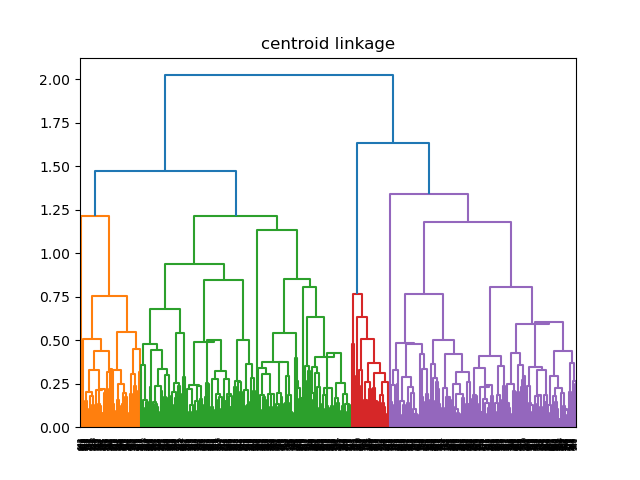
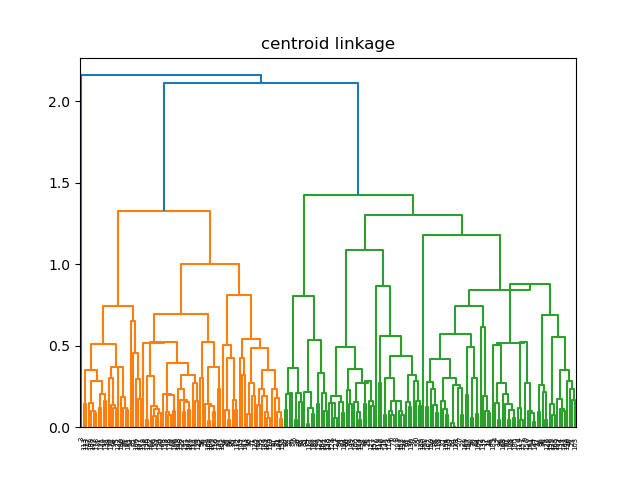
hw02

diff --git a/src/scipy_linkage_blobs.py b/src/scipy_linkage_blobs.py
@@ -3,37 +3,37 @@ from sklearn.datasets import make_blobs
 from sklearn.preprocessing import StandardScaler
 from sklearn.metrics import silhouette_score, calinski_harabasz_score
 from scipy.cluster.hierarchy import dendrogram, linkage, fcluster
+from kmean_pca import plotit
 
 
 def plot_agglo(X_scaled, link_choice=str):
     score_s = []
     score_chs = []
+    fig, axs = plt.subplots(5, 2)
+    x, y = 0, 0
     for i in range(2, 11):
         Z = linkage(X_scaled, link_choice)
         y_pred = fcluster(Z=Z, t=i, criterion="maxclust")
         score_s.append(silhouette_score(X_scaled, y_pred))
         score_chs.append(calinski_harabasz_score(X_scaled, y_pred))
 
-        plt.subplot(5, 2, i - 1)
-        plt.scatter(X_scaled[:, 0], X_scaled[:, 1], c=y_pred)
-        plt.title(f"Linkage = {link_choice} & Cluster = {i}")
-    plt.gcf().set_size_inches(10, 15)
-    plt.tight_layout
+        axs[x, y].scatter(X_scaled[:, 0], X_scaled[:, 1], c=y_pred)
+        axs[x, y].set_title(f"Cluster = {i}")
+        if (i - 1) % 2 == 0:
+            x += 1
+        y = (i - 1) % 2
+    fig.set_size_inches(10, 15)
+    fig.suptitle(f"Linkage = {link_choice}")
+    plt.subplots_adjust(top=0.85)
+    fig.tight_layout(h_pad=2)
+
     return score_s, score_chs
-
-
-def plot_score(k, score, color):
-    plt.plot(k, score, color)
-    plt.xlabel("k")
-    plt.ylabel("score")
-    plt.grid(True)
-    plt.tight_layout
 
 
 if __name__ == "__main__":
     # Part 1 ==================================================================
     # generate sample data.
-    X, y = make_blobs(n_samples=1000, centers=4, random_state=0, cluster_std=0.5)
+    X, y = make_blobs(n_samples=200, centers=4, random_state=0, cluster_std=0.5)
 
     # scale the data.
     scaler = StandardScaler()
@@ -59,18 +59,34 @@ if __name__ == "__main__":
         list_chs.append(score_chs)
 
     # Part 3 ==================================================================
+    fig, axs = plt.subplots(5, 2)
     i = 0
     for link in link_type:
+        plotit(
+            axs=axs,
+            x_data=k_values,
+            y_data=list_s[i],
+            line="gs-",
+            ylabel="score",
+            name=f"Silhouette score for {link} linkage",
+            row=i,
+            col=0,
+        )
+        plotit(
+            axs=axs,
+            x_data=k_values,
+            y_data=list_chs[i],
+            line="bs-",
+            ylabel="score",
+            name=f"CHI score for {link} linkage",
+            row=i,
+            col=1,
+        )
         i += 1
-        plt.subplot(5, 2, 2 * i - 1)
-        plot_score(k_values, list_s[i - 1], "gs-")
-        plt.title(f"Silhouette score for {link} linkage")
-        # plt.ylim(0, 0.8)
-        plt.subplot(5, 2, 2 * i)
-        plot_score(k_values, list_chs[i - 1], "bs-")
-        plt.title(f"CHI score for {link} linkage")
-        # plt.ylim(0, 5000)
-    plt.gcf().set_size_inches(10, 15)
+    fig.set_size_inches(10, 15)
+    fig.suptitle("Evaluation of different linkages")
+    plt.subplots_adjust(top=0.85)
+    fig.tight_layout(h_pad=2)
     plt.savefig("fig/agglo_score.png")
     plt.show()
 

diff --git a/src/kmean_pca.py b/src/kmean_pca.py
@@ -10,12 +10,16 @@ from sklearn.metrics import silhouette_score
 import time
 
 
-def plotit(y_data, line, ylabel, name):
-    plt.plot(k_values, y_data, line)
-    plt.xlabel("k")
-    plt.ylabel(ylabel)
-    plt.title(name)
-    plt.grid(True)
+def plotit(axs, x_data, y_data, line, ylabel, name, row, col):
+    axs[row, col].plot(
+        x_data,
+        y_data,
+        line,
+    )
+    axs[row, col].set_xlabel("k")
+    axs[row, col].set_ylabel(ylabel)
+    axs[row, col].set_title(name)
+    axs[row, col].grid(True)
 
 
 if __name__ == "__main__":
@@ -92,15 +96,24 @@ if __name__ == "__main__":
     init_methods = ["k-means++", "Random"]
     line_col = ["gs-", "bs-"]
 
-    index = 0
+    fig, axs = plt.subplots(3, 2)
     for x, x_name in enumerate(calc_name):
         for y, y_name in enumerate(init_methods):
-            index += 1
-            plt.subplot(3, 2, index)
-            plotit(y_data=calc_data[x][y], line=line_col[y], ylabel=x_name, name=y_name)
+            plotit(
+                axs=axs,
+                x_data=k_values,
+                y_data=calc_data[x][y],
+                line=line_col[y],
+                ylabel=x_name,
+                name=y_name,
+                row=x,
+                col=y,
+            )
 
-    plt.gcf().set_size_inches(10, 9)
-    plt.tight_layout
+    fig.set_size_inches(10, 9)
+    fig.suptitle("Initialization method")
+    plt.subplots_adjust(top=0.85)
+    fig.tight_layout(h_pad=2)
     plt.savefig("fig/kmean_init.png")
     plt.show()
 
@@ -157,14 +170,23 @@ if __name__ == "__main__":
     opt_methods = ["Lloyd", "Elkan"]
     line_col = ["gs-", "bs-"]
 
-    index = 0
+    fig, axs = plt.subplots(2, 2)
     for x, x_name in enumerate(calc_name):
         for y, y_name in enumerate(opt_methods):
-            index += 1
-            plt.subplot(2, 2, index)
-            plotit(y_data=calc_data[x][y], line=line_col[y], ylabel=x_name, name=y_name)
+            plotit(
+                axs=axs,
+                x_data=k_values,
+                y_data=calc_data[x][y],
+                line=line_col[y],
+                ylabel=x_name,
+                name=y_name,
+                row=x,
+                col=y,
+            )
 
-    plt.gcf().set_size_inches(10, 6)
-    plt.tight_layout
+    fig.set_size_inches(10, 6)
+    fig.suptitle("Optimization method")
+    plt.subplots_adjust(top=0.85)
+    fig.tight_layout(h_pad=2)
     plt.savefig("fig/kmean_opt.png")
     plt.show()

diff --git a/src/scipy_linkage_moons.py b/src/scipy_linkage_moons.py
@@ -1,14 +1,15 @@
 import matplotlib.pyplot as plt
 from sklearn.datasets import make_moons
 from sklearn.preprocessing import StandardScaler
-from scipy_linkage_blobs import plot_agglo, plot_score
+from scipy_linkage_blobs import plot_agglo
 from scipy.cluster.hierarchy import dendrogram, linkage
+from kmean_pca import plotit
 
 
 if __name__ == "__main__":
     # Part 1 ==================================================================
     # generate sample data.
-    X, y = make_moons(n_samples=1000, random_state=0, noise=0.2)
+    X, y = make_moons(n_samples=200, random_state=0, noise=0.2)
 
     # scale the data.
     scaler = StandardScaler()
@@ -34,18 +35,34 @@ if __name__ == "__main__":
         list_chs.append(score_chs)
 
     # Part 3 ==================================================================
+    fig, axs = plt.subplots(5, 2)
     i = 0
     for link in link_type:
+        plotit(
+            axs=axs,
+            x_data=k_values,
+            y_data=list_s[i],
+            line="gs-",
+            ylabel="score",
+            name=f"Silhouette score for {link} linkage",
+            row=i,
+            col=0,
+        )
+        plotit(
+            axs=axs,
+            x_data=k_values,
+            y_data=list_chs[i],
+            line="bs-",
+            ylabel="score",
+            name=f"CHI score for {link} linkage",
+            row=i,
+            col=1,
+        )
         i += 1
-        plt.subplot(5, 2, 2 * i - 1)
-        plot_score(k_values, list_s[i - 1], "gs-")
-        plt.title(f"Silhouette score for {link} linkage")
-        # plt.ylim(0, 0.8)
-        plt.subplot(5, 2, 2 * i)
-        plot_score(k_values, list_chs[i - 1], "bs-")
-        plt.title(f"CHI score for {link} linkage")
-        # plt.ylim(0, 5000)
-    plt.gcf().set_size_inches(10, 15)
+    fig.set_size_inches(10, 15)
+    fig.suptitle("Evaluation of different linkages")
+    plt.subplots_adjust(top=0.85)
+    fig.tight_layout(h_pad=2)
     plt.savefig("fig/agglo_score.png")
     plt.show()
 
